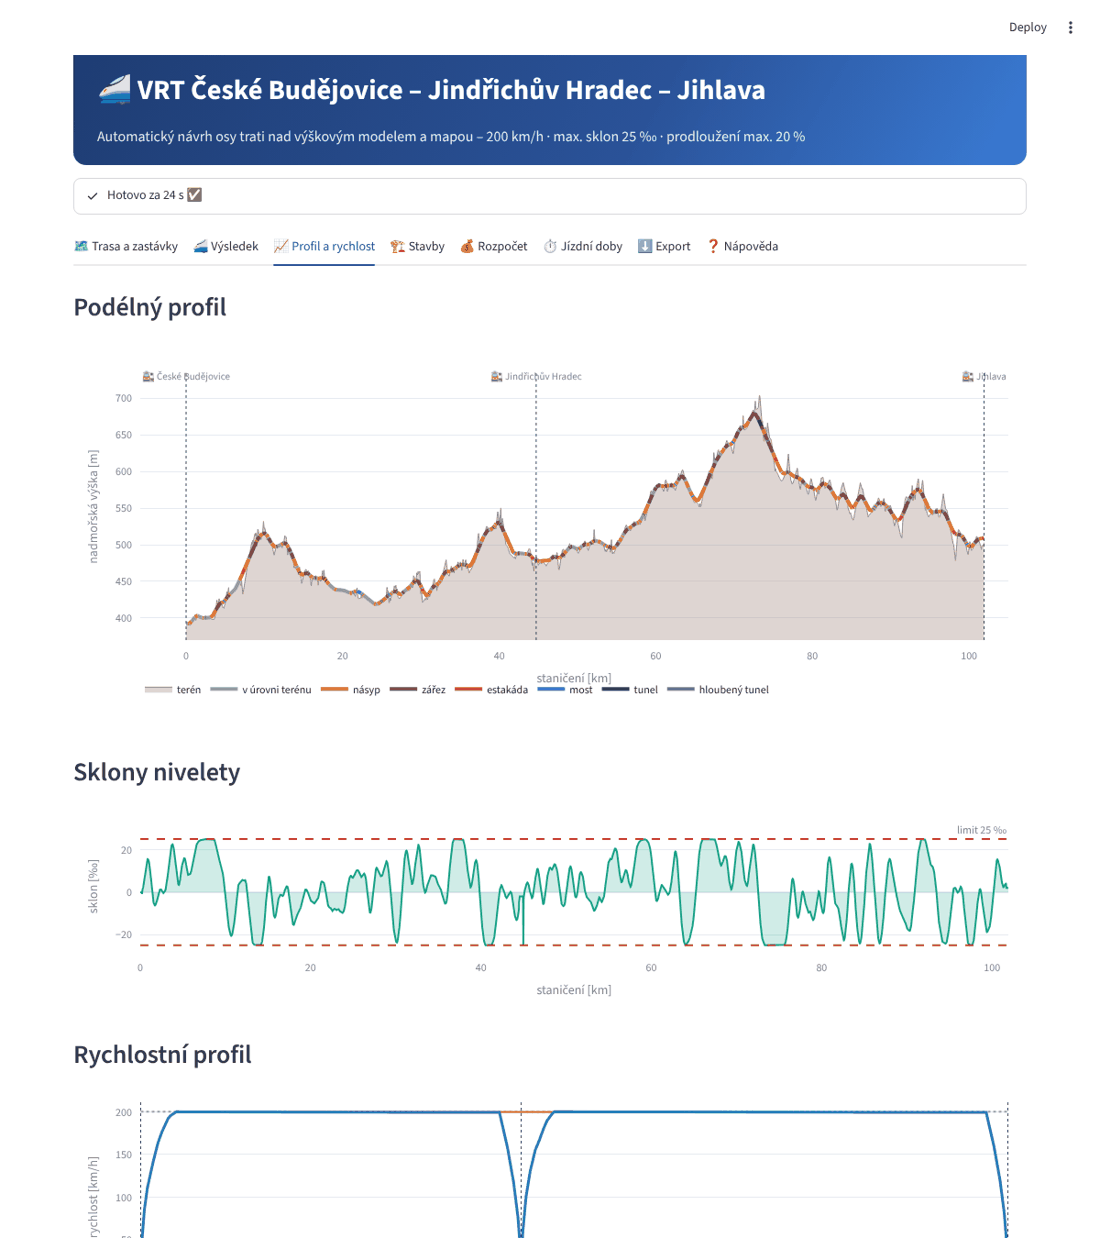
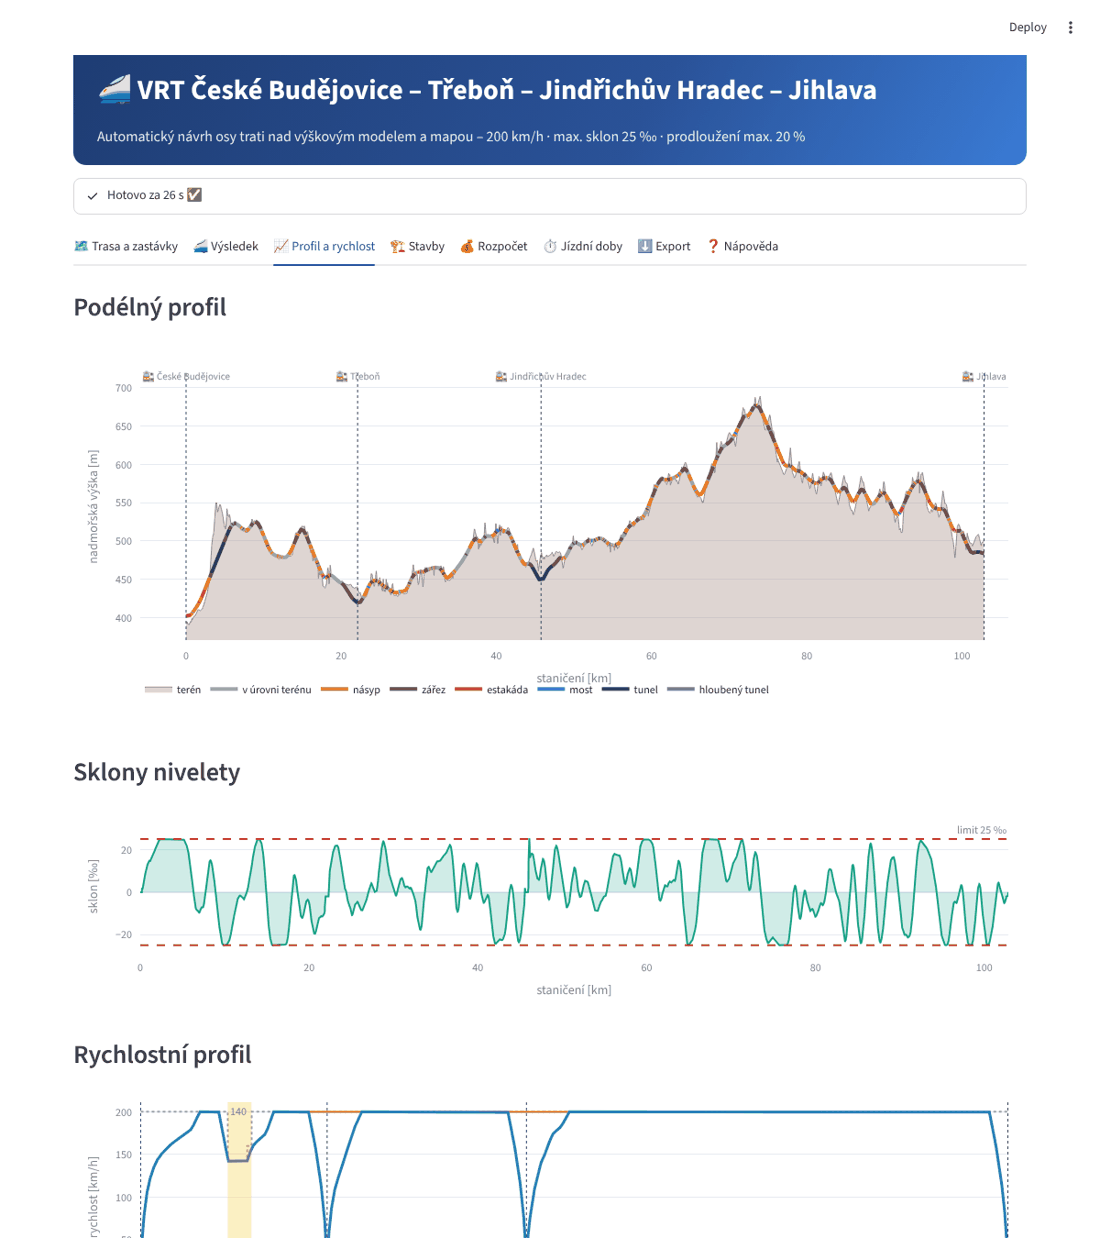
Snížená rychlost nesmí přidat demolice, verze 1.1.0, nové screenshoty
- úsek se sníženou rychlostí se přijme jen tehdy, když nepřibude žádná demolice
- druhé dostahování budov při selhání Overpass jen varuje
- OSM oblast zaokrouhlena na 0,1° (lepší využití cache)
- opravy formátu sklonu a souhrnu, screenshoty pro ČB – Třeboň – JH – Jihlava

Claude-Session: https://claude.ai/code/session_01BGiEqKSGbFSSVRWMYkYqk4

diff --git a/planovac/omezeni.py b/planovac/omezeni.py
@@ -11,7 +11,7 @@ Postup:
 2. Pro každého kandidáta a dvě rychlosti (minimální a střední) se osa přepočítá s menším
    poloměrem jen v okně a celá varianta se vyhodnotí (niveleta, stavby, rozpočet).
 3. Kandidát se přijme, pokud ušetří alespoň ``min_uspora_mil`` mil. Kč nebo zachrání alespoň
-   ``min_uspora_demolic`` domů (a celkově se neprodraží). Vybere se nejvýše ``max_pocet``
+   ``min_uspora_demolic`` domů, a přitom nepřibude žádná demolice. Vybere se nejvýše ``max_pocet``
    nepřekrývajících se úseků a ověří se jejich společný účinek.
 """
 from __future__ import annotations
@@ -157,7 +157,8 @@ def najdi_omezeni(
             dcena = zaklad.cena_mil - var.cena_mil
             ddem = zaklad.demolice - var.demolice
             dJ = zaklad.J - var.J
-            ok = dJ > 0 and (dcena >= cfg.min_uspora_mil or ddem >= cfg.min_uspora_demolic)
+            # nesmí přibýt demolice; musí výrazně ušetřit peníze nebo zachránit domy
+            ok = dJ > 0 and ddem >= 0 and (dcena >= cfg.min_uspora_mil or ddem >= cfg.min_uspora_demolic)
             protokol.append(f"km {s0 / 1000:.1f}–{s1 / 1000:.1f}, {v:.0f} km/h: úspora {dcena:,.0f} mil. Kč, "
                             f"demolic o {ddem} méně → {'přijato' if ok else 'nevyplatí se'}".replace(",", " "))
             if not ok:
@@ -179,7 +180,7 @@ def najdi_omezeni(
         osa = navrhni([(a, b, r) for a, b, r, _, _ in prijate])
         useky = useky_z_osy(osa, navrh)
         var = vyhodnot(osa)
-        if (var.J < zaklad.J and len(useky) <= cfg.max_pocet
+        if (var.J < zaklad.J and var.demolice <= zaklad.demolice and len(useky) <= cfg.max_pocet
                 and all(u.delka <= cfg.max_delka_m + 1 for u in useky)):
             # přiřadit k výsledným úsekům úspory jednotlivých kandidátů (podle polohy)
             for u in useky:

diff --git a/planovac/report.py b/planovac/report.py
@@ -87,9 +87,9 @@ def souhrn_text(r: Result) -> str:
         f"bez zastavení: {fmt_cas(s['express_s'])}",
     ]
     if r.omezeni:
+        uspora = f"{s['omezeni_uspora_mil']:,.0f}".replace(",", " ")
         lines.append(f"Úseky se sníženou rychlostí: {s['omezeni_ks']} ks / {s['omezeni_km']:.1f} km "
-                     f"(úspora {s['omezeni_uspora_mil']:,.0f} mil. Kč, o {s['omezeni_demolic_mene']} demolic méně)"
-                     .replace(",", " "))
+                     f"(úspora {uspora} mil. Kč, demolic o {s['omezeni_demolic_mene']} méně)")
         for u in r.omezeni:
             lines.append(f"  • km {u.s0 / 1000:.1f}–{u.s1 / 1000:.1f}: {u.rychlost_kmh:.0f} km/h (R {u.min_polomer_m:.0f} m)")
     if r.porovnani_vlaku:
@@ -602,7 +602,7 @@ def to_html_report(r: Result) -> str:
 <meta name="viewport" content="width=device-width, initial-scale=1"><title>{html.escape(r.project.nazev)} – návrh trati</title>
 <style>{REPORT_CSS}</style></head><body>
 <header><h1>🚄 {html.escape(r.project.nazev)}</h1>
-<p>Návrhová rychlost {r.project.navrh.rychlost_kmh:.0f} km/h · max. sklon {r.project.navrh.max_sklon_promile:.0f} ‰ ·
+<p>Návrhová rychlost {r.project.navrh.rychlost_kmh:.0f} km/h · max. sklon {r.project.navrh.max_sklon_promile:g} ‰ ·
 min. poloměr {r.project.navrh.min_polomer():.0f} m · vygenerováno {datetime.now():%d. %m. %Y %H:%M} programem Plánovač tratí</p></header>
 <main>
 <div class="kpis">{kpi_html}</div>

diff --git a/planovac/pipeline.py b/planovac/pipeline.py
@@ -183,7 +183,11 @@ def run_project(project: Project, progress: Progress | None = None) -> Result:
             # části nové osy mimo prohledaný pás doplnit
             pas2 = LineString(osa.xy).buffer(250).simplify(50).difference(pas1.buffer(-50))
             if not pas2.is_empty and pas2.area > 1e5:
-                stahni_budovy(pas2, 0.66)
+                try:
+                    stahni_budovy(pas2, 0.66)
+                except osm_mod.OverpassError as e:
+                    varovani.append(f"{e}. Budovy na krátkých úsecích mimo první prohledaný pás chybí – "
+                                    "počet demolic tam může být podhodnocen.")
         except osm_mod.OverpassError as e:
             varovani.append(f"{e}. Budovy nebyly staženy – vyhýbání se domům a počet demolic jsou jen přibližné "
                             "(podle zástavby).")

diff --git a/app.py b/app.py
@@ -246,7 +246,7 @@ with st.sidebar:
 
 st.markdown(f"""<div class="hero"><h1>🚄 {P.nazev}</h1>
 <p>Automatický návrh osy trati nad výškovým modelem a mapou – {P.navrh.rychlost_kmh:.0f} km/h ·
-max. sklon {P.navrh.max_sklon_promile:.0f} ‰ · prodloužení max. {P.navrh.max_prodlouzeni_pct:.0f} %</p></div>""",
+max. sklon {P.navrh.max_sklon_promile:g} ‰ · prodloužení max. {P.navrh.max_prodlouzeni_pct:.0f} %</p></div>""",
             unsafe_allow_html=True)
 
 

diff --git a/planovac/__init__.py b/planovac/__init__.py
@@ -1,3 +1,3 @@
 """Plánovač tratí – automatický návrh osy vysokorychlostní trati nad výškovým modelem a OSM."""
 
-__version__ = "1.0.0"
+__version__ = "1.1.0"

diff --git a/docs/NAVOD.md b/docs/NAVOD.md
@@ -48,7 +48,7 @@ cenové úrovni ČR ~2025.
 Program smí na celé trati použít nejvýše **4 úseky** (nastavitelné), každý nejvýše **3 km** dlouhý, kde vlak
 pojede pomaleji (nejméně **120 km/h**). V takovém úseku smí být menší oblouky, takže se trať může vyhnout
 vesnici, kopci nebo údolí. Úsek se použije jen tehdy, když **ušetří alespoň 300 mil. Kč** nebo **zachrání
-alespoň 5 domů** (obojí nastavitelné). Na kartě *🏗 Stavby* je tabulka použitých úseků i protokol, co všechno
+alespoň 5 domů** (obojí nastavitelné) – a nikdy nesmí počet demolic zvýšit. Na kartě *🏗 Stavby* je tabulka použitých úseků i protokol, co všechno
 program zkoušel; v mapě jsou žlutě, v grafu rychlosti jako žluté pásy.
 
 ### 🚆 Vlak

diff --git a/docs/ALGORITMUS.md b/docs/ALGORITMUS.md
@@ -79,7 +79,8 @@ Plná rychlost vyžaduje velké oblouky, takže osa někde „řízne“ přes o
 2. Pro každého kandidáta se osa přepočítá s menším minimálním poloměrem jen v okně – pro 120 km/h
    R = 11,8·120²/(D+I) ≈ 700 m a pro střední rychlost – a celá varianta se znovu vyhodnotí
    (niveleta, stavby, rozpočet, jízdní doba).
-3. Přijme se, pokud kritérium J = cena + penalizace·demolice klesne a úspora ≥ 300 mil. Kč nebo ≥ 5 domů.
+3. Přijme se, pokud kritérium J = cena + penalizace·demolice klesne, nepřibude žádná demolice a úspora je
+   ≥ 300 mil. Kč nebo ≥ 5 domů.
    Vyšší rychlost má přednost, dá-li ≥ 80 % úspory. Vybere se max. 4 nepřekrývajících se úseků a ověří
    jejich společný účinek.
 

diff --git a/README.md b/README.md
@@ -104,6 +104,7 @@ Podrobný návod: **[docs/NAVOD.md](docs/NAVOD.md)** (je i přímo v aplikaci na
 | | |
 |---|---|
 | ![Profil](docs/img/profil.png) | ![Stavby](docs/img/stavby.png) |
+| ![Jízdní doby](docs/img/jizdni_doby.png) | |
 
 ### Hlavní nastavitelné parametry
 
